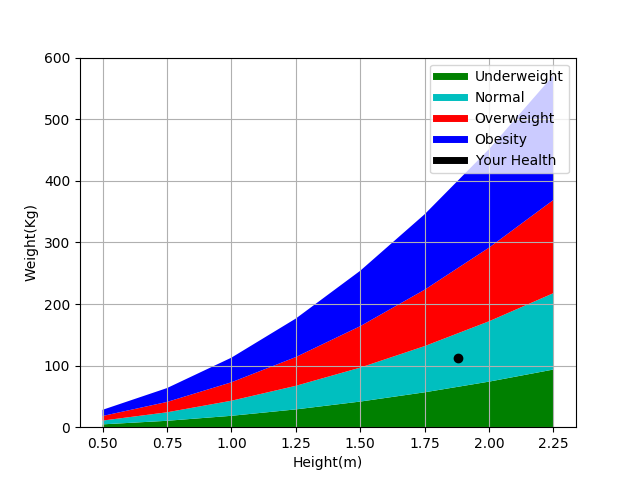
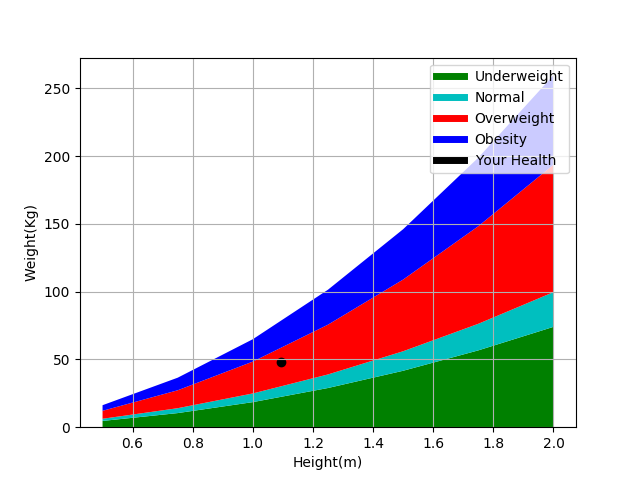
slight changes in the graph

diff --git a/Graph.py b/Graph.py
@@ -5,7 +5,7 @@ import matplotlib.pyplot as plt
 
 def graphs(h, w):
     #Creating Coordinates For Graoh
-    allheight=[0.5,0.75,1.0,1.25,1.5,1.75,2.0,2.25]
+    allheight=[0.5,0.75,1.0,1.25,1.5,1.75,2.0]
 
 
 
@@ -17,27 +17,25 @@ def graphs(h, w):
 
     normalweight=[]
     for i in range(0,len(allheight)):
-        temp=(24.5)*allheight[i]*allheight[i]
-        normalweight.append(round(temp,2))
+        temp=(24.9)*allheight[i]*allheight[i]
+        normalweight.append(round(temp,2)-underweight[i])
 
 
 
     overweight=[]
     for i in range(0,len(allheight)):
         temp=(29.9)*allheight[i]*allheight[i]
-        overweight.append(round(temp,2)) 
+        overweight.append(round(temp,2)-normalweight[i]) 
 
 
 
     obese=[]
     for i in range(0,len(allheight)):
         temp=(40)*allheight[i]*allheight[i]
-        obese.append(round(temp,2))
-
-
+        obese.append(round(temp,2)-overweight[i])
 
     #Plotting Graph
-    plt.plot([],[],color='g',label='Underweight',linewidth=5)
+    plt.plot([],[] ,color='g',label='Underweight',linewidth=5)
     plt.plot([],[],color='c',label='Normal',linewidth=5)
     plt.plot([],[],color='r',label='Overweight',linewidth=5)
     plt.plot([],[],color='b',label='Obesity',linewidth=5)
